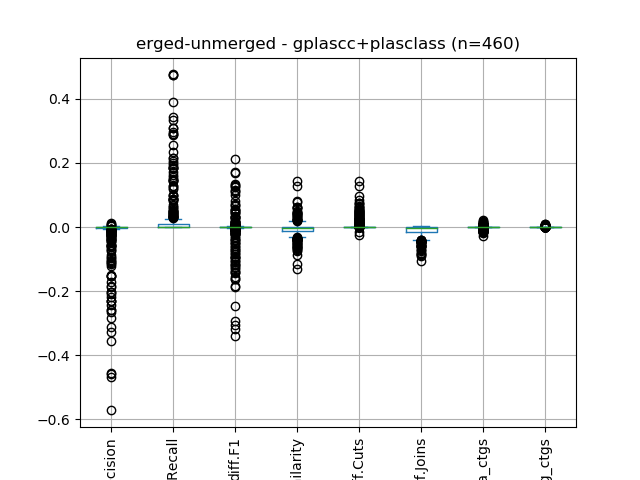
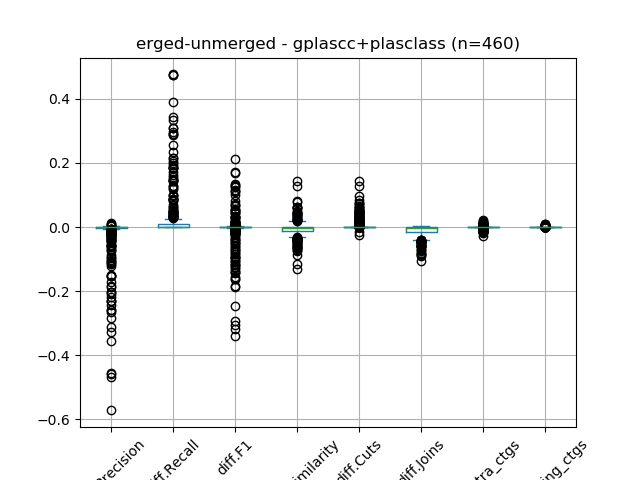
difference figures

diff --git a/exp_20250802/analysis_utils.py b/exp_20250802/analysis_utils.py
@@ -363,7 +363,7 @@ def create_unmerged_vs_merged_difference_boxplot(
         plot_df = plot_df_aux[diff_cols]
     nb_data_points = plot_df.shape[0]
 
-    plot_df.plot.box(grid=True, rot=90)
+    plot_df.plot.box(grid=True, rot=45)
     plt.xlabel(diff_cols)
     plt.title(f"{out_title} (n={nb_data_points})")
     plt.savefig(out_file)
